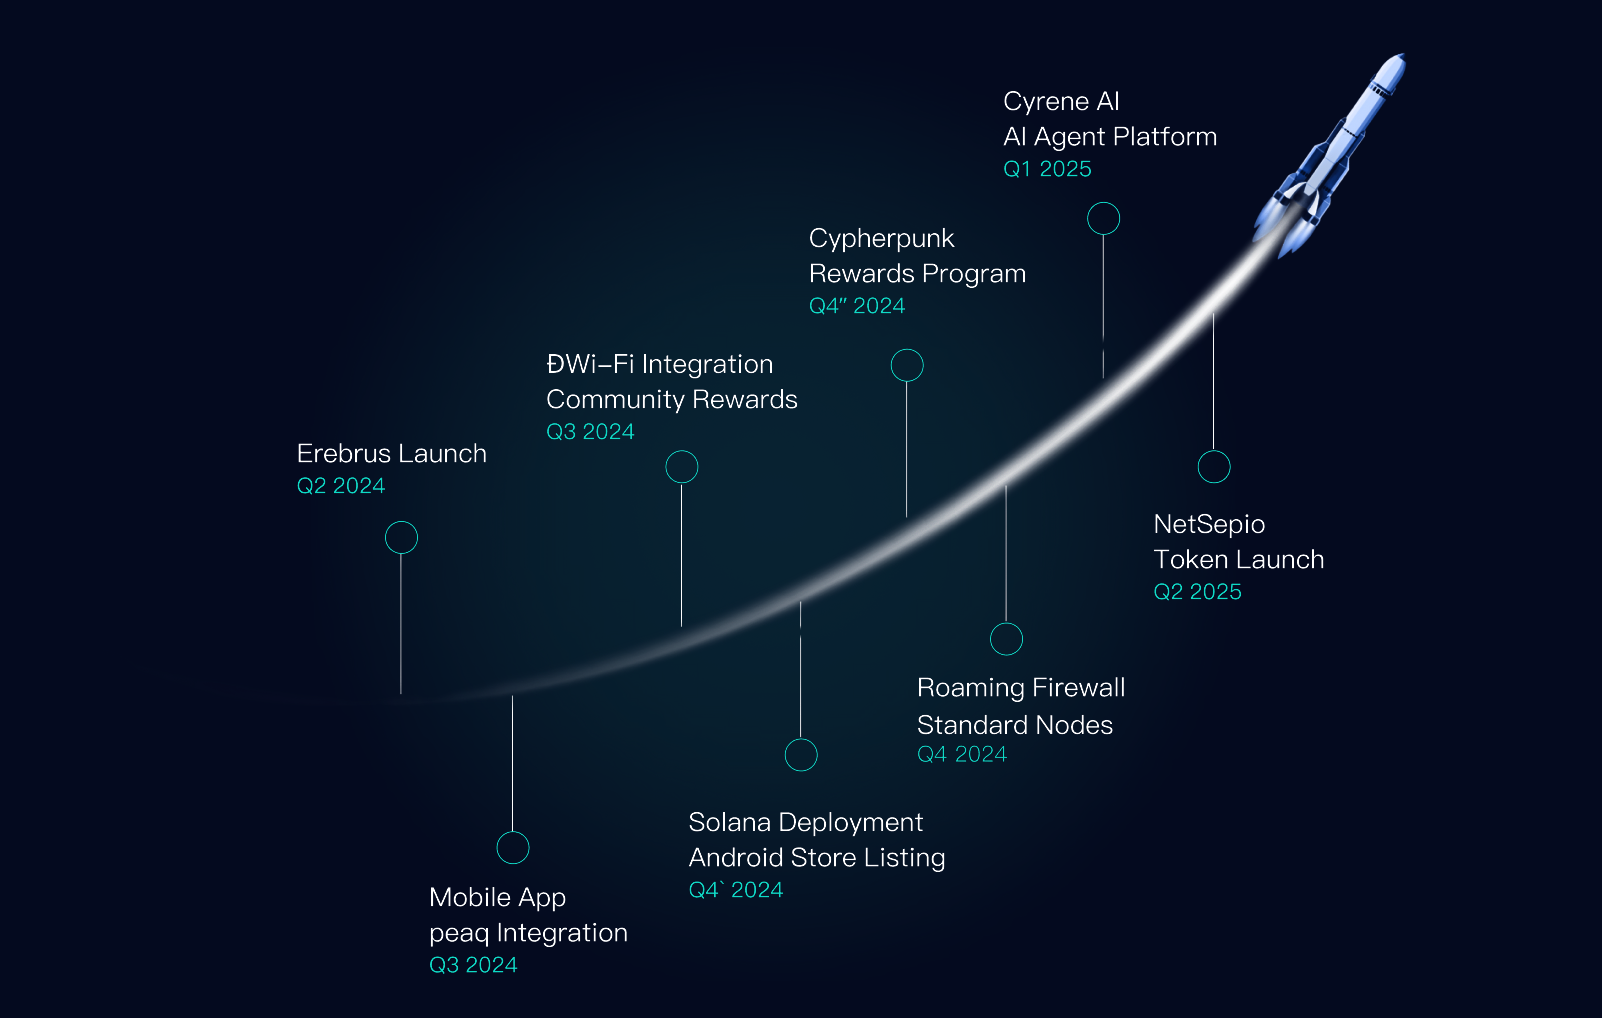
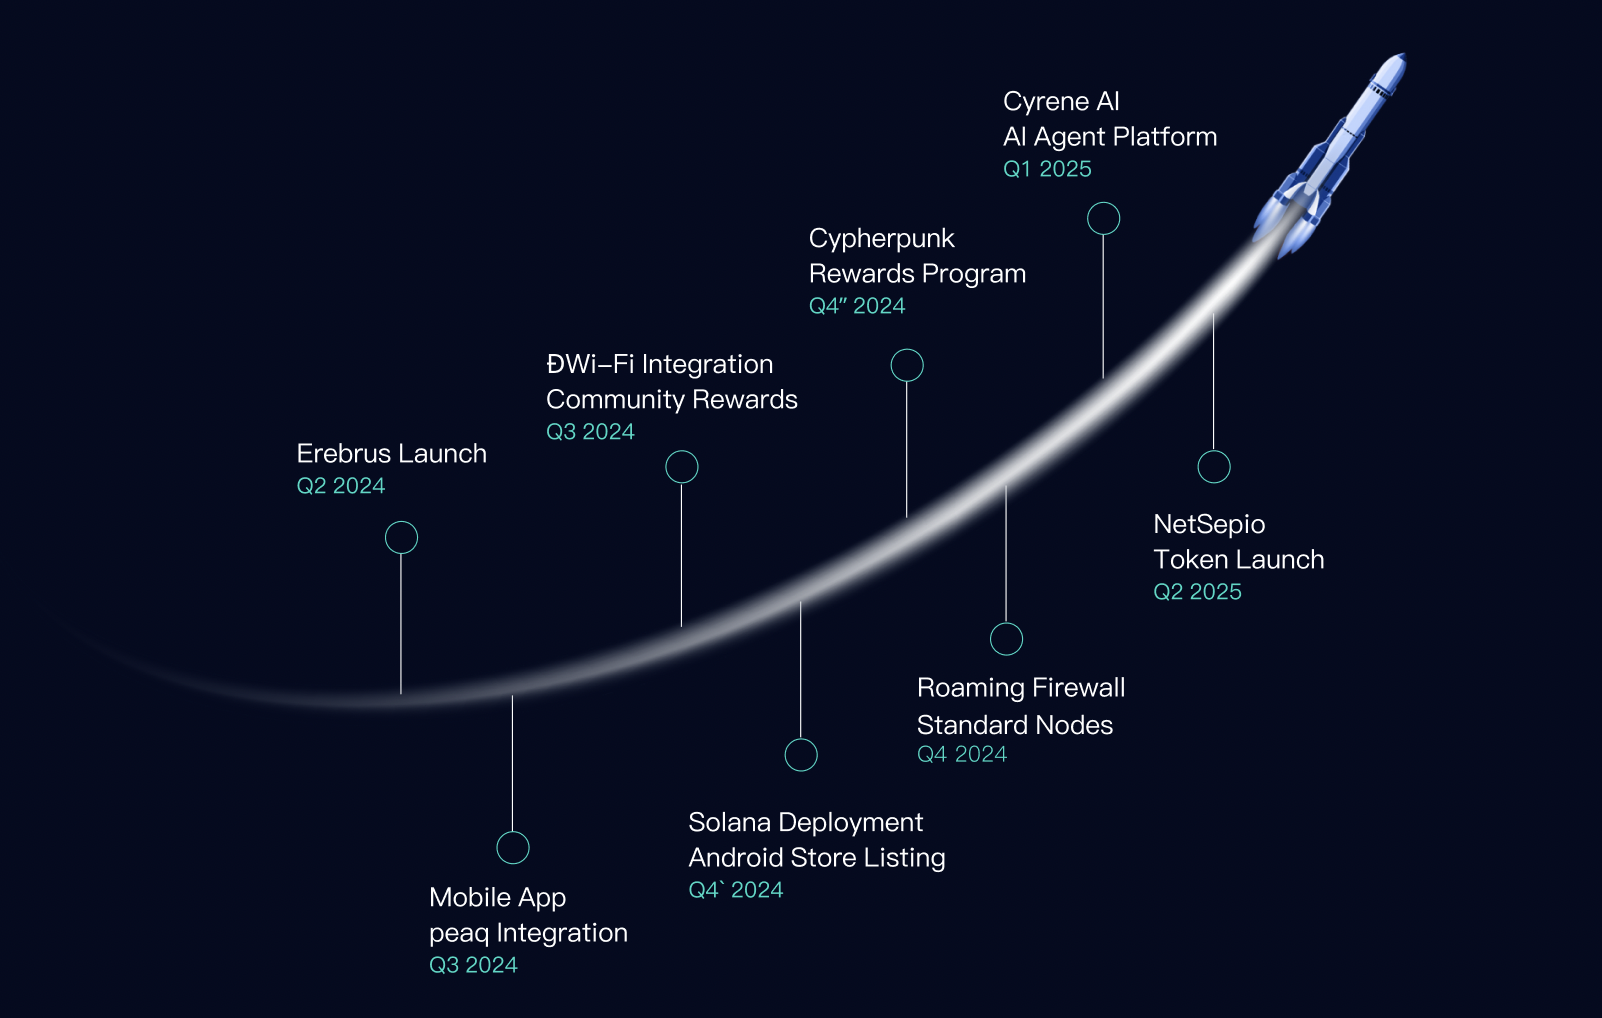
Minor UI updates

diff --git a/src/components/Success.jsx b/src/components/Success.jsx
@@ -1,154 +1,29 @@
-import React, { useEffect, useState, useMemo } from "react";
+import React from "react";
 import "../styles/Success.css";
-
-const Achievement = ({ id, position, isVisible, heading, description, pinPosition }) => {
-  return (
-    <>
-      {/* Achievement Text Content */}
-      <div
-        id={`achievement-${id}`}
-        style={{
-          position: "absolute",
-          ...position, // Position for title and description
-          opacity: isVisible ? 1 : 0,
-          transition: "opacity 0.5s ease, transform 0.5s ease",
-          transform: isVisible ? "translateY(0)" : "translateY(50px)",
-          backgroundColor: "transparent", // Transparent background
-          padding: "10px",
-          borderRadius: "8px",
-        }}
-        className="achievement"
-      >
-        <h3 style={{ color: "white", marginBottom: "5px" }}>{heading}</h3>
-        <p style={{ color: "#11D9C5", margin: 0 }}>{description}</p>
-      </div>
-
-      {/* Pin Icon for Each Achievement */}
-      <img
-        src="/images/pin-icon.png" // Direct URL for the pin icon
-        alt="Pin Icon"
-        style={{
-          position: "absolute",
-          ...pinPosition, // Custom position for the pin icon
-          transform: `translate(-50%, -50%) ${
-            id % 2 === 0 ? "rotate(-180deg)" : ""
-          }`, // Rotate even IDs by -180 degrees
-          width: "40px",
-          height: "120px",
-          opacity: isVisible ? 1 : 0, // Sync visibility with the achievement
-          transition: "opacity 0.5s ease",
-        }}
-      />
-    </>
-  );
-};
+import { ZoomIn } from "./FadeAnimations";
 
 const Success = () => {
-  const achievements = useMemo(() => [
-    {
-      id: 1,
-      position: { top: "40%", left: "15%" }, // Position for title and description
-      heading: "Erebrus Launch",
-      description: "Q2 2024",
-      pinPosition: { top: "49%", left: "20%" }, // Custom pin position for ID 1
-    },
-    {
-      id: 2,
-      position: { top: "60%", left: "20%" }, // Position for title and description
-      heading: "Mobile App peaq integration",
-      description: "Q3 2024",
-      pinPosition: { top: "56%", left: "27%" }, // Custom pin position for ID 2
-    },
-    {
-      id: 3,
-      position: { top: "36%", left: "27%" }, // Position for title and description
-      heading: "Dwi-Fi Integrations Community Rewards",
-      description: "Q3 2024",
-      pinPosition: { top: "48%", left: "35%" }, // Custom pin position for ID 3
-    },
-    {
-      id: 4,
-      position: { top: "58%", left: "35%" }, // Position for title and description
-      heading: "Solana Deployment Android Store Listing",
-      description: "Q4 2024",
-      pinPosition: { top: "53%", left: "43%" }, // Custom pin position for ID 4
-    },
-    {
-      id: 5,
-      position: { top: "30%", right: "45%" }, // Position for title and description
-      heading: "Cypherpunk Rewards Program",
-      description: "Q4 2024",
-      pinPosition: { top: "44%", right: "50%" }, // Custom pin position for ID 5
-    },
-    {
-      id: 6,
-      position: { top: "52%", right: "35%" }, // Position for title and description
-      heading: "Roaming Firewall Standard Nodes",
-      description: "Q4 2024",
-      pinPosition: { top: "47%", right: "40%" }, // Custom pin position for ID 6
-    },
-    {
-      id: 7,
-      position: { top: "22%", right: "28%" }, // Position for title and description
-      heading: "CyreneAI AI Agent platform",
-      description: "Q1 2025",
-      pinPosition: { top: "35%", right: "35%" }, // Custom pin position for ID 7
-    },
-    {
-      id: 8,
-      position: { top: "43%", right: "20%" }, // Position for title and description
-      heading: "NetSepio Token Launch",
-      description: "Q2 2025",
-      pinPosition: { top: "37%", right: "27%" }, // Custom pin position for ID 8
-    },
-  ], []);
-
-  const [visibleSteps, setVisibleSteps] = useState([]);
-
-  useEffect(() => {
-    const handleScroll = () => {
-      const newVisibleSteps = [];
-      achievements.forEach((achievement) => {
-        const element = document.getElementById(`achievement-${achievement.id}`);
-        if (element) {
-          const rect = element.getBoundingClientRect();
-          if (rect.top < window.innerHeight && rect.bottom > 0) {
-            newVisibleSteps.push(achievement.id);
-          }
-        }
-      });
-      setVisibleSteps(newVisibleSteps);
-    };
-
-    window.addEventListener("scroll", handleScroll);
-    return () => window.removeEventListener("scroll", handleScroll);
-  }, [achievements]);
-
   return (
     <div
       style={{
         display: "flex",
         justifyContent: "center",
         alignItems: "center",
-        height: "200vh",
-        backgroundColor: "#040a20",
         textAlign: "center",
-        position: "relative",
+        paddingBottom: "10rem",
+        backgroundColor: "#040a20",
+        backgroundImage: "radial-gradient(900px 500px at 50% 50%, rgba(17, 217, 197, 0.1) 1%, rgba(4, 10, 32, 1) 100%, rgba(4, 10, 32, 0.4) 100%)",
+        backdropFilter: "blur(400px)",
       }}
     >
-      <h1 className="success-title">Road To Success</h1>
-      <img
-        src="/images/roadmap-rocket.png"
-        alt="Road To Success"
-        style={{ width: "95%", position: "absolute", top: "10%" }}
-      />
-      {achievements.map((achievement) => (
-        <Achievement
-          key={achievement.id}
-          {...achievement}
-          isVisible={visibleSteps.includes(achievement.id)}
+      <ZoomIn>
+        <h1 className="text-6xl  text-center text-white mb-12">Road To Success</h1>
+        <img
+          src="/images/Success-1.png"
+          alt="Road To Success"
+          style={{ width: "95%" }}
         />
-      ))}
+      </ZoomIn>
     </div>
   );
 };

diff --git a/src/styles/Success.css b/src/styles/Success.css
@@ -1,53 +1,19 @@
-.achievement {
-    color: white;
-    font-size: 1rem;
-    padding: 10px;
-    background-color: transparent; /* Transparent background */
-    border-radius: 8px;
-    max-width: 200px;
-    text-align: left;
-  }
-  
-  .achievement h3 {
-    font-size: 1.2rem;
-    margin-bottom: 5px;
-    color: white; /* Heading color */
-  }
-  
-  .achievement p {
-    font-size: 0.9rem;
-    margin: 0;
-    color: #11D9C5; /* Description color */
-  }
-  
+.success-title {
+  color: #fff;
+  margin-bottom: 50px;
+  font-size: 4rem;
+  margin-top: 0;
+  font-weight: normal;
+}
+
+@media (max-width: 1000px) {
   .success-title {
-    color: white;
     font-size: 3rem;
-    position: absolute;
-    top: 5%;
   }
-  
-  @media (max-width: 1000px) {
-    .success-title {
-      font-size: 3rem;
-    }
+}
+
+@media (max-width: 576px) {
+  .success-title {
+    font-size: 2.5rem;
   }
-  
-  @media (max-width: 576px) {
-    .success-title {
-      font-size: 2.5rem;
-    }
-  }
-  
-  @keyframes bounce {
-    0%, 100% {
-      transform: translate(-50%, -50%) scale(1);
-    }
-    50% {
-      transform: translate(-50%, -50%) scale(1.2);
-    }
-  }
-  
-  .pin-icon {
-    animation: bounce 1.5s infinite;
-  }
+}

diff --git a/src/components/Cypherpunk.jsx b/src/components/Cypherpunk.jsx
@@ -10,9 +10,9 @@ const Cypherpunk = () => {
   ];
   return (
     <div className="cypherpunk-container">
-      <div className="cypherpunk-box">
+      <div className="cypherpunk-box ">
         <h1 className="cypherpunk-title">Cypherpunk Rewards Program</h1>
-        <p className="cypherpunk-subtitle">
+        <p className="cypherpunk-subtitle -mt-5">
           Empowering Community to Shape the Future
         </p>
         <div className="cypherpunk-images">
@@ -29,7 +29,7 @@ const Cypherpunk = () => {
             )
           )}
         </div>
-        <div className="cypherpunk-footer font-bold">
+        <div className="cypherpunk-footer font-bold py-4">
           <h2 className="cypherpunk-cta-text">
             CLAIM YOUR ROLE AND EARN REWARDS
           </h2>

diff --git a/src/components/Erebrus.jsx b/src/components/Erebrus.jsx
@@ -6,7 +6,7 @@ const Erebrus = () => {
   return (
     <div className="erebrus-container">
       <FadeUp>
-        <h1 className="erebrus-title font-sans">Erebrus Decentralized VPN</h1>
+        <h1 className="text-6xl  text-center text-white mb-12 font-sans">Erebrus Decentralized VPN</h1>
         <p className="erebrus-text font-sans">
           Private, Secure, and censorship-free internet with <br /> CyreneAI
           integration

diff --git a/src/components/Cyrene.jsx b/src/components/Cyrene.jsx
@@ -7,7 +7,7 @@ const Cyrene = () => {
     <div className="cyrene-container">
       <FadeUp>
         <div className="cyrene-content">
-          <h1 className="cyrene-title">Meet CyreneAI</h1>
+          <h1 className="text-6xl  text-center text-white mb-12">Meet CyreneAI</h1>
           <p className="cyrene-text font-sans">
             Multi-Agent Platform and AI Coordination layer on secure VPN network
           </p>

diff --git a/src/components/Subscribe.jsx b/src/components/Subscribe.jsx
@@ -22,8 +22,8 @@ const Subscribe = () => {
         </div>
       </div>
 
-      <div className="community-section">
-        <h1>Join Our Community. Join the Future.</h1>
+      <div className="community-section ">
+        <h1 >Join Our Community. Join the Future.</h1>
         <div className="community-buttons">
           <a
             href="https://discordapp.com/invite/5uaFhNpRF6"

diff --git a/src/components/Technology.jsx b/src/components/Technology.jsx
@@ -6,7 +6,7 @@ export function Technology() {
   return (
     <div className="bg-[#040a20] min-h-screen">
       <div className="max-w-5xl mx-auto px-8 py-12">
-        <h1 className="text-5xl  text-center text-white mb-12">
+        <h1 className="text-6xl  text-center text-white mb-12">
           Cutting-Edge Technology
         </h1>
         <HoverEffect items={technologies} />

diff --git a/src/components/Winner.jsx b/src/components/Winner.jsx
@@ -6,7 +6,7 @@ const Winners = () => {
   return (
     <div className="winners-container">
       <FadeUp>
-        <h1 className="winners-title ">Join the Winners!</h1>
+        <h1 className="text-6xl  text-center text-white mb-12 ">Join the Winners!</h1>
         <div className="winners-content py-6">
           <div className="winners-images">
             {[

diff --git a/src/styles/Cypherpunk.css b/src/styles/Cypherpunk.css
@@ -9,6 +9,7 @@
 
 /* Cyberpunk Box */
 .cypherpunk-box {
+ 
   position: relative;
   width: 1110px;
   height: 759px;
@@ -57,7 +58,7 @@
 /* Title */
 .cypherpunk-title {
   color: #fff;
-  margin-top: 100px;
+  margin-top: 60px;
   margin-bottom: 40px;
   font-size: 3.5rem;
   position: relative;
